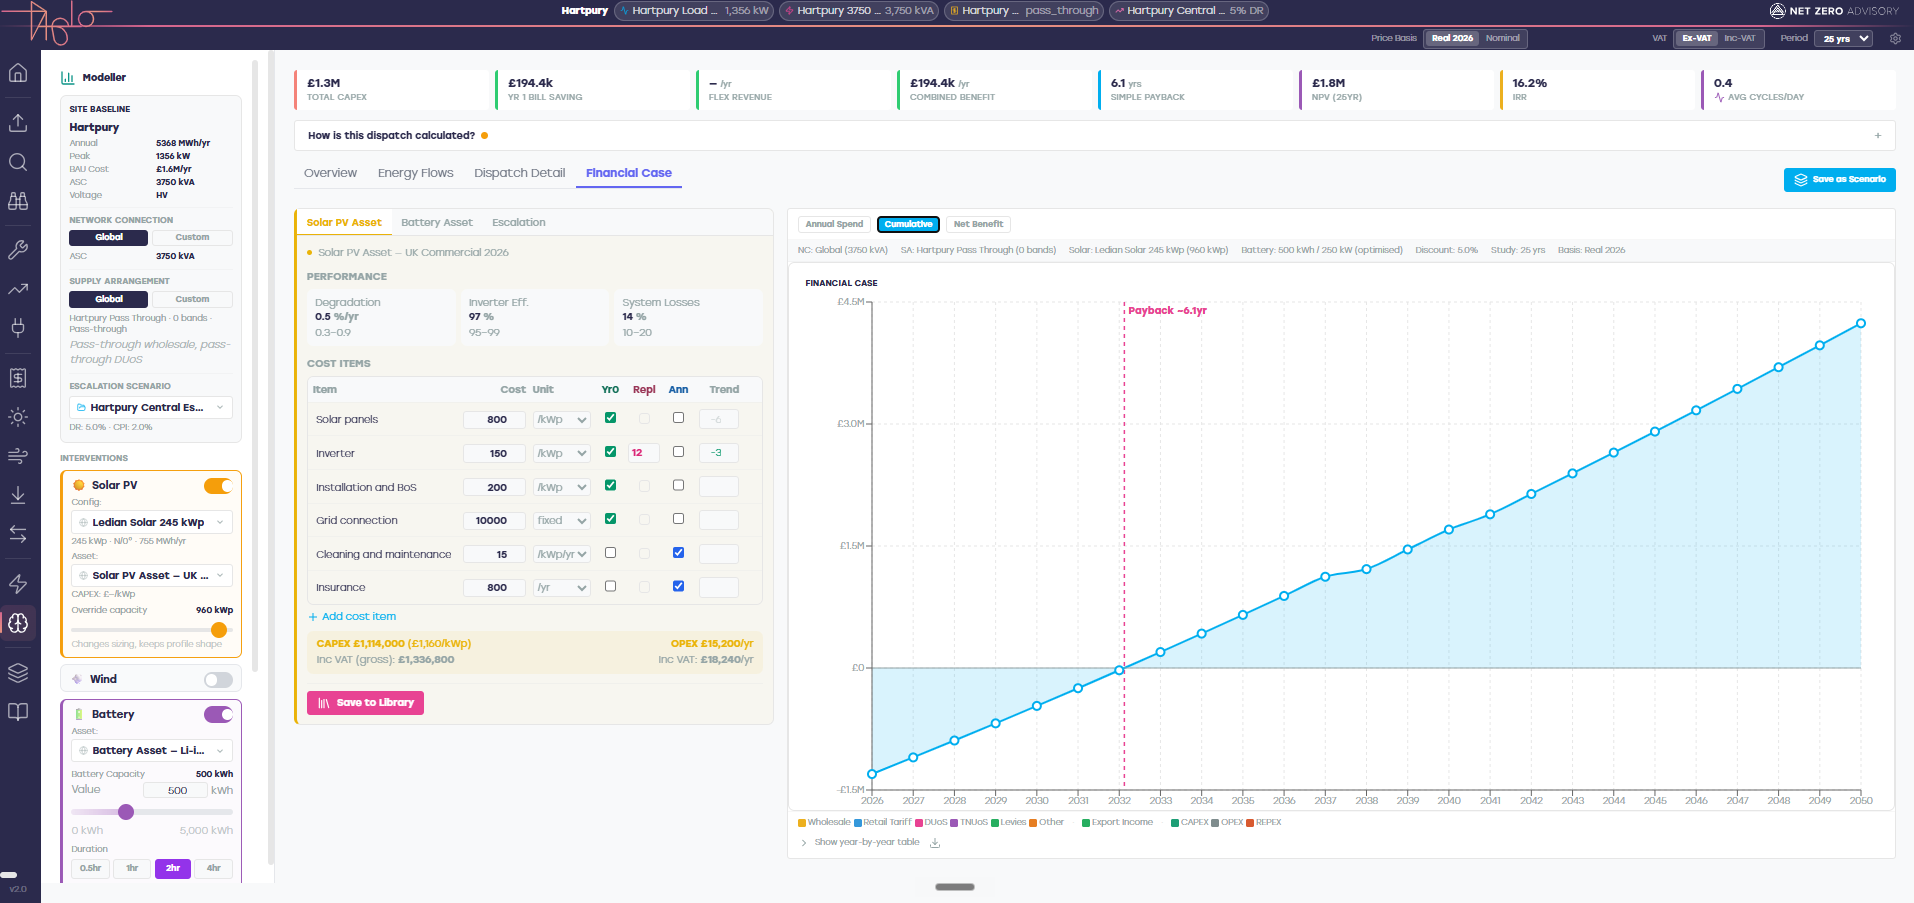
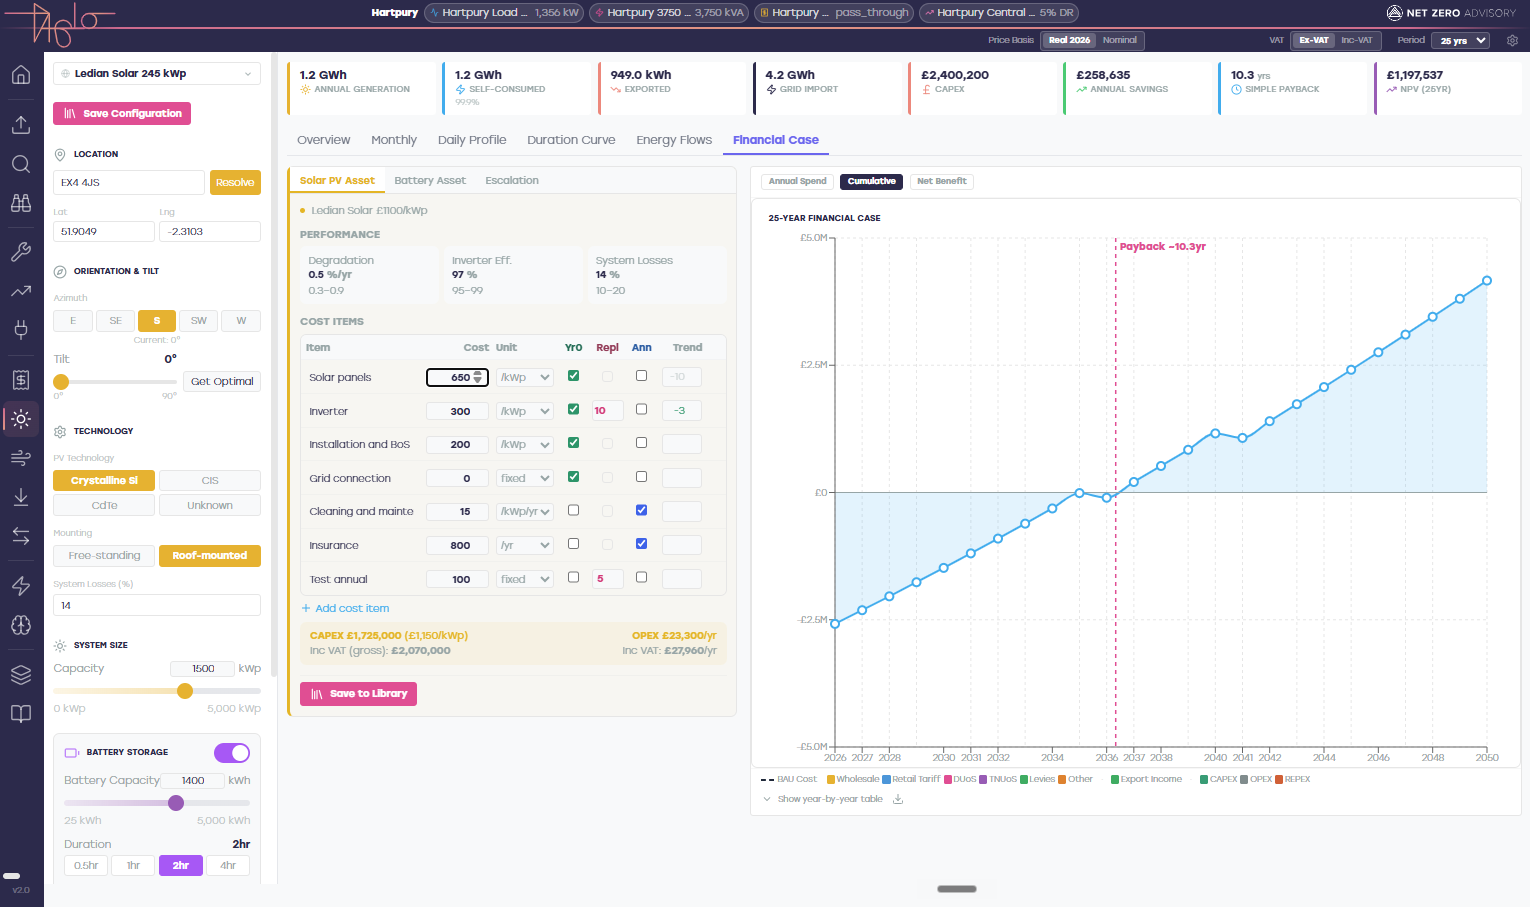
Landing v2 chunk C: invert products section cream -> navy
Per v2 brief Change 3. The whole section flips palette + style:

Background
- screen.products-section now #1A2540 (brief-exact deep navy).
  Specificity bumped to 0,2,0 to beat .screen.canvas-navy's
  default ink-navy (#0E1120) which is a different navy.
- 5-blob ambient field added (.landing-blob--products-navy-1..3 +
  --products-coral + --products-cream) - same colour palette + same
  drift animations as the hero's blob field, co-prime durations so
  the visible pattern never loops. Continuous visual language with
  the navy band of the hero.
- position: relative + overflow: hidden on the section so the heavy-
  blur blobs are clipped to the section bounds. .frame is bumped to
  z-index: 2 so content sits above the blob field.

Intro block
- New .products-micro: "OUR PRODUCTS" mono coral at 11px (matches
  the brief's section-label pattern across all sections).
- .products-heading: "Our products" Stolzl 500, cream on navy (no
  italic accent per brief - the hero carries that).
- .products-intro: rewritten to brief copy ("Three tools we've built
  to help organisations move on net zero - each one solving a
  different piece of the puzzle.") + cream at 75% opacity.
- New .products-hint: "Hover to see what each does. Click to dive
  in." mono coral 11px, uppercase via CSS.

Product cards on the dark surface
- Active card bg: opaque cream (#FCF8EF) -> rgba(255,255,255,0.04)
  per brief - "very subtle cream wash, much lighter than the navy".
[…]

diff --git a/src/styles/landing.css b/src/styles/landing.css
@@ -1304,11 +1304,19 @@
      - Explore link appears at the bottom
    Clicking the logo itself does NOT route - only the Explore link does.
    ========================================================================= */
-.products-section {
-  background: var(--paper);
-  color: var(--ink-navy);
+/* .screen.products-section beats .screen.canvas-navy (also 0,2,0) by
+   being declared later. The brief specifies #1A2540 exactly which is
+   slightly different from --ink-navy (#0E1120). */
+.screen.products-section {
+  /* Inverted to navy per v2 brief Change 3. Cream -> navy hard cut
+     from the "How we work" section above. Ambient blob field
+     continues the hero's visual language through this band. */
+  background: #1A2540;
+  color: var(--fg-on-navy-1);
   padding: 120px 0;
   min-height: auto;
+  position: relative;
+  overflow: hidden;
 }
 @media (max-width: 899px) {
   .products-section { padding: 96px 0; }
@@ -1316,43 +1324,108 @@
 @media (max-width: 599px) {
   .products-section { padding: 80px 0; }
 }
+.products-section > .frame {
+  position: relative;
+  z-index: 2;
+}
 
-/* Centred intro block - heading + body intro above the triptych. */
+/* Centred intro block - micro + heading + body intro + sub-line. */
 .products-intro-block {
   text-align: center;
   max-width: 760px;
   margin: 0 auto 96px;
   display: flex;
   flex-direction: column;
-  gap: 28px;
+  gap: 18px;
 }
 @media (max-width: 599px) {
   .products-intro-block { margin-bottom: 64px; }
 }
 
-/* "Our products" - hero-headline size, Stolzl Book, coral. Matches
-   the visual weight of the home page's coral italic word. */
-.products-heading {
+/* Section micro-label - mono coral above the headline. */
+.products-micro {
   margin: 0;
-  font-family: var(--font-display);
-  font-weight: 400; /* Stolzl Book per Chris */
-  font-size: clamp(36px, 6vw, 72px);
-  line-height: 1.06;
-  letter-spacing: -0.025em;
+  font-family: ui-monospace, "IBM Plex Mono", SFMono-Regular, Menlo, Consolas, monospace;
+  font-size: 11px;
+  font-weight: 500;
+  letter-spacing: 0.22em;
   color: var(--coral);
 }
 
-/* Body intro - Stolzl Thin per Chris ("let's stick with Stolzl Thin
-   throughout for now"). */
-.products-intro {
+/* "Our products" - Stolzl, cream on navy. Per v2 brief: no italic
+   accent on the heading (the hero already carries that). */
+.products-heading {
   margin: 0;
   font-family: var(--font-display);
-  font-weight: 100;
+  font-weight: 500;
+  font-size: clamp(36px, 6vw, 72px);
+  line-height: 1.06;
+  letter-spacing: -0.025em;
+  color: var(--fg-on-navy-1);
+}
+
+/* Body intro - cream at ~75% opacity per v2 brief. */
+.products-intro {
+  margin: 0;
+  font-family: var(--font-body);
+  font-weight: 400;
   font-size: clamp(18px, 1.8vw, 24px);
   line-height: 1.4;
   letter-spacing: -0.005em;
-  color: var(--ink-navy);
-  opacity: 0.85;
+  color: rgba(245, 241, 232, 0.75);
+}
+
+/* Sub-line - "Hover to see what each does. Click to dive in."
+   Coral mono, small, sits beneath the intro paragraph. */
+.products-hint {
+  margin: 8px 0 0;
+  font-family: ui-monospace, "IBM Plex Mono", SFMono-Regular, Menlo, Consolas, monospace;
+  font-size: 11px;
+  font-weight: 500;
+  letter-spacing: 0.18em;
+  text-transform: uppercase;
+  color: var(--coral);
+}
+
+/* ===== Products section blob field - continuous with the hero =====
+   Same 5-blob spec as the hero (3 navy tones + coral + cream, heavy
+   blur), spread across this band so the navy reads as alive. */
+.landing-blobs--products {
+  position: absolute;
+  inset: 0;
+  overflow: hidden;
+  pointer-events: none;
+  z-index: 0;
+}
+.landing-blob--products-navy-1 {
+  background: rgba(30, 38, 70, 0.55);
+  top: -8%;
+  left: -10%;
+  animation: landing-blob-drift-1 27s cubic-bezier(0.4, 0, 0.6, 1) infinite alternate;
+}
+.landing-blob--products-navy-2 {
+  background: rgba(55, 68, 110, 0.42);
+  top: 32%;
+  right: -10%;
+  animation: landing-blob-drift-2 34s cubic-bezier(0.4, 0, 0.6, 1) infinite alternate;
+}
+.landing-blob--products-navy-3 {
+  background: rgba(85, 100, 145, 0.26);
+  bottom: -12%;
+  left: 24%;
+  animation: landing-blob-drift-3 29s cubic-bezier(0.4, 0, 0.6, 1) infinite alternate;
+}
+.landing-blob--products-coral {
+  background: rgba(247, 90, 85, 0.18);
+  top: 20%;
+  right: 22%;
+  animation: landing-blob-drift-4 38s cubic-bezier(0.4, 0, 0.6, 1) infinite alternate;
+}
+.landing-blob--products-cream {
+  background: rgba(245, 241, 232, 0.12);
+  bottom: 18%;
+  left: 12%;
+  animation: landing-blob-drift-1 43s cubic-bezier(0.4, 0, 0.6, 1) infinite alternate;
 }
 
 /* TRIPTYCH - three equal cells side by side using the full frame width. */
@@ -1448,7 +1521,10 @@
   .products-triptych { gap: 20px; }
 }
 .product-card.is-active {
-  background: #FCF8EF;
+  /* Subtle cream wash on the dark navy ground per v2 brief Change 3
+     ("rgba(255, 255, 255, 0.04) - very subtle cream wash, much
+     lighter than the navy"). */
+  background: rgba(255, 255, 255, 0.04);
 }
 
 /* Per-product accent palettes (Chris's brief):
@@ -1483,13 +1559,18 @@
 .product-card-box-half {
   position: absolute;
   inset: 0;
-  /* 3px gives the gradient border enough weight that the colour
-     asymmetry of the 135deg gradient (lighter at top-left, darker
-     at bottom-right) stops mattering perceptually. */
-  border: 3px solid transparent;
-  border-radius: 16px;
+  /* Reduced from 3px to 1.5px per v2 brief Change 3 - "hairline
+     coral 0.5px solid rgba(247, 90, 85, 0.4)". 1.5px is the
+     threshold where the draw-in animation still reads clearly on
+     a 1x display without looking like a heavy border on a 2x. */
+  border: 1.5px solid transparent;
+  border-radius: 14px;
   pointer-events: none;
-  background: linear-gradient(135deg, var(--accent-start), var(--accent-end)) border-box;
+  /* Solid coral background - the mask trick still exposes only the
+     border ring. Per v2 brief: "hairline coral, rgba(247, 90, 85, 0.4)"
+     - single colour, no longer per-product gradient. The product
+     identity now lives entirely in the logo mark itself. */
+  background: rgba(247, 90, 85, 0.55) border-box;
   /* Mask exposes ONLY the border ring (border-box minus padding-box).
      CRITICAL: the gradient stops have to be (#fff, #fff) - NOT
      (#fff 0 0) which is a single-stop non-gradient that renders
@@ -1572,12 +1653,12 @@
 .product-card-logo-silhouette {
   position: absolute;
   inset: 0;
-  /* Slightly lifted navy so the mask reads as DARK BLUE rather than
-     black at large scale (per Chris). The base --ink-navy (#0E1120)
-     is so dark that as a flat mask fill it loses its blue cast and
-     reads as black. #1A2A47 still feels confidently navy but holds
-     enough blue to match the site's other navy moments visibly. */
-  background-color: #1A2A47;
+  /* CREAM silhouette on the navy products surface (v2 brief Change 3).
+     Was #1A2A47 navy when the section was cream - on the inverted
+     navy surface the navy silhouette would be invisible. Cream at
+     ~85% reads as the same "muted at rest" treatment but on the
+     dark canvas. */
+  background-color: rgba(245, 241, 232, 0.85);
   -webkit-mask-size: contain;
           mask-size: contain;
   -webkit-mask-position: center;
@@ -1626,27 +1707,25 @@
 
 .product-card-question {
   margin: 0;
-  /* SAME font face as the landing-page italic emphasis (Times New
-     Roman via var(--font-italic) per the project MEMORY note),
-     but font-style: normal so it's NOT italic - that's what Chris
-     asked for: "I still like the font type, just not it being
-     italic." Times New Roman regular reads as a confident serif
-     statement of the catch-line phrase. */
+  /* Per v2 brief: serif italic-style face, cream on navy. (Per
+     project MEMORY: this face is Times New Roman, kept upright via
+     font-style: normal per Chris's earlier "same font type, just
+     not italic" call.) */
   font-family: var(--font-italic);
   font-style: normal;
   font-weight: 400;
-  font-size: clamp(18px, 1.8vw, 22px);
+  font-size: clamp(17px, 1.6vw, 20px);
   line-height: 1.25;
-  color: var(--accent-text);
+  color: var(--fg-on-navy-1);
 }
 .product-card-promise {
   margin: 0;
-  font-family: var(--font-display);
-  font-weight: 100; /* Stolzl Thin per Chris */
-  font-size: 14px;
-  line-height: 1.45;
-  color: var(--ink-navy);
-  opacity: 0.85;
+  font-family: var(--font-body);
+  font-weight: 400;
+  font-size: 13px;
+  line-height: 1.5;
+  /* Cream at 65% opacity per v2 brief. */
+  color: rgba(245, 241, 232, 0.65);
 }
 .product-card-explore {
   display: inline-flex;
@@ -1658,14 +1737,16 @@
   font-size: 11px;
   letter-spacing: 0.18em;
   text-transform: uppercase;
-  color: var(--accent-text);
+  /* Coral per v2 brief - explicit brand coral, not per-product
+     accent (the per-product accent lives on the gradient border). */
+  color: var(--coral);
   text-decoration: none;
-  border-bottom: 1px solid var(--accent-text);
+  border-bottom: 1px solid var(--coral);
   transition: gap 220ms cubic-bezier(0.16, 1, 0.3, 1);
 }
 .product-card-explore:hover { gap: 12px; }
 .product-card-explore:focus-visible {
-  outline: 2px solid var(--accent-text);
+  outline: 2px solid var(--coral);
   outline-offset: 4px;
   border-radius: 2px;
 }

diff --git a/src/screens/ProductsScreen.tsx b/src/screens/ProductsScreen.tsx
@@ -56,11 +56,10 @@ const PRODUCTS: Product[] = [
     id: 'nzai',
     name: 'NZ:AI',
     href: '/nz-ai',
-    /* Dark variant of the NZ:AI wordmark - text in navy, teal colon
-       outlines - because the homepage products section sits on cream.
-       The white-text variant (nzai-logo.svg) is used on the actual
-       /nz-ai product page where the canvas is dark navy. */
-    logoSrc: '/assets/logos/nzai-logo-dark.svg',
+    /* The products section is now NAVY (v2 brief Change 3) so the
+       white-text variant reads correctly here too. The dark-text
+       variant is no longer needed on the homepage. */
+    logoSrc: '/assets/logos/nzai-logo.svg',
     alt: 'NZ:AI',
     question: 'Want to make sense of complex carbon data?',
     promise:
@@ -176,18 +175,38 @@ export function ProductsScreen() {
 
   return (
     <section
-      className="screen canvas-paper products-section in-view"
+      className="screen canvas-navy products-section in-view"
       id="products"
       data-screen-label="Products"
     >
+      {/* Ambient blob field - same five-blob system as the hero,
+          continuing the visual language through the navy band per
+          v2 brief Change 3. */}
+      <div
+        className="landing-blobs landing-blobs--products"
+        aria-hidden="true"
+      >
+        <span className="landing-blob landing-blob--products-navy-1" />
+        <span className="landing-blob landing-blob--products-navy-2" />
+        <span className="landing-blob landing-blob--products-navy-3" />
+        <span className="landing-blob landing-blob--products-coral" />
+        <span className="landing-blob landing-blob--products-cream" />
+      </div>
+
       <div className="frame">
         <div className="products-intro-block">
+          <MaskReveal as="p" className="products-micro" delay={0}>
+            OUR PRODUCTS
+          </MaskReveal>
           <MaskReveal as="h2" className="products-heading" delay={100}>
             Our products
           </MaskReveal>
           <MaskReveal as="p" className="products-intro" delay={300}>
-            Three tools to help organisations move from climate ambition into
-            climate action - each one solving a different piece of the puzzle.
+            Three tools we've built to help organisations move on net zero -
+            each one solving a different piece of the puzzle.
+          </MaskReveal>
+          <MaskReveal as="p" className="products-hint" delay={460}>
+            Hover to see what each does. Click to dive in.
           </MaskReveal>
         </div>
 
